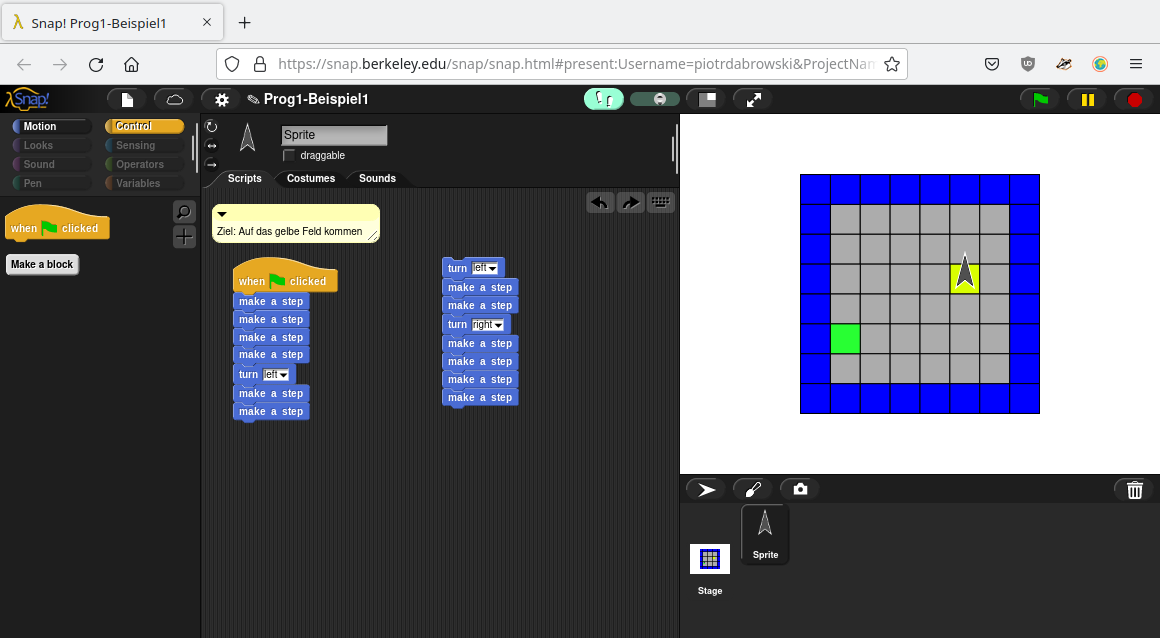
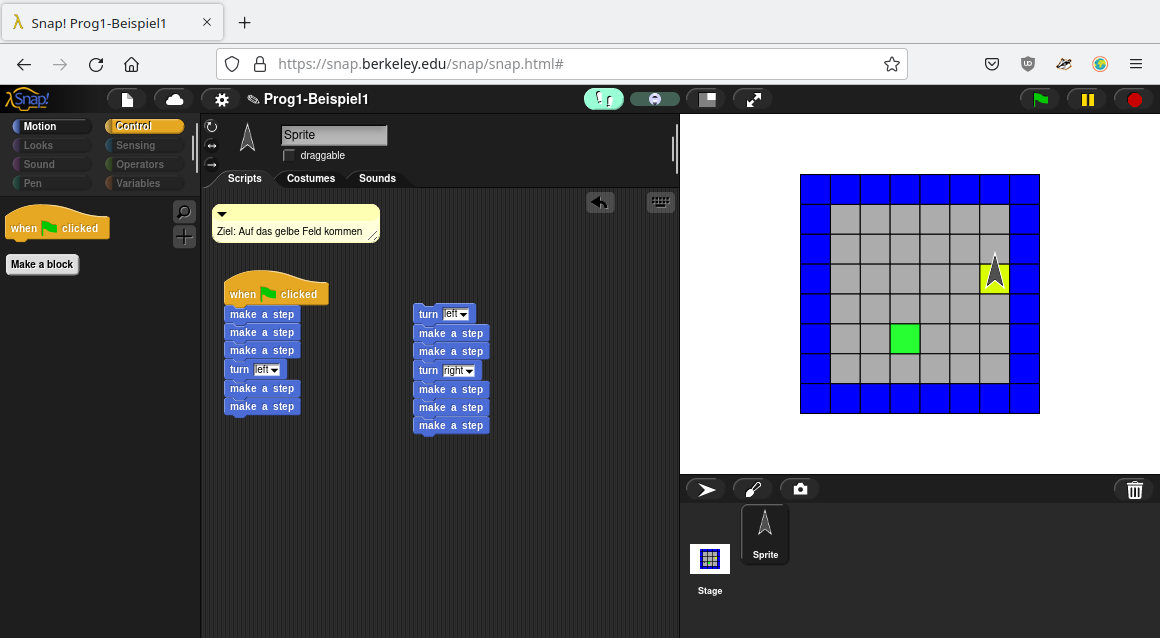
Updated maps to work without variables in week 1

diff --git a/Skript/Woche1.md b/Skript/Woche1.md
@@ -60,7 +60,7 @@ Auf der linken Seite sind die zur Verfügung stehenden Blöcke aufgelistet. Beac
 
 Wichtig sind noch zwei weitere Bedienelemente: Durch Klick auf die grüne Fahne oben rechts starten Sie Ihr Programm. Und durch Klick auf die Fußspuren oben in der Mitte (im Screenshot hellblau hinterlegt) verlangsamen Sie die Ausführung des Programms, um die einzelnen Schritte besser nachvollziehen zu können. Die genaue Geschwindigkeit können Sie mit dem Schieberegler daneben einstellen.
 
-Beginnen wir nun mit dem ersten Algorithmus, um den Pfeil von dem grünen auf das gelbe Feld zu führen. Dafür muss er 4 Schritte machen, sich dann nach links drehen, und dann weitere 2 Schritte machen (zumindest ist das eine der vielen möglichen Lösungen). Das lässt sich in Snap! durch drag&drop der entsprechenden Kontrollblöcke wie folgt abbilden:
+Beginnen wir nun mit dem ersten Algorithmus, um den Pfeil von dem grünen auf das gelbe Feld zu führen. Dafür muss er 3 Schritte machen, sich dann nach links drehen, und dann weitere 2 Schritte machen (zumindest ist das eine der vielen möglichen Lösungen). Das lässt sich in Snap! durch drag&drop der entsprechenden Kontrollblöcke wie folgt abbilden:
 
 ![Erster Lösungsversuch](Bilder/Snap-2.png)
 
@@ -84,3 +84,38 @@ Dieses Problem hat jeder Algorithmus: Wenn die Rahmenbedingungen, für die er ge
 
 ![Vollständige Lösung](Bilder/Snap-6.png)
 
+## Verallemeinerungen und Kontrollstrukturen
+
+Der Nachteil von diesem Algorithmus ist, dass er nur exakt dann funktioniert, wenn der Pfeil auf dem grünen Feld ist und das gelbe Feld 3 Schritte nach vorne und 2 Schritte nach links weg ist. Wenn der Algorithmus aber mit unterschiedlichen Positionen des gelben Feldes umgehen können soll, dann reicht eine starre Abfolge an Anweisungen nicht aus: Es sind Bedingungen nötig.
+
+Zwei Varianten von Bedingungen schauen wir uns in [Beispiel 2](https://snap.berkeley.edu/project?user=piotrdabrowski&project=Prog1-Beispiel2) an. Zunächst sieht die Karte identisch aus, wie im vorangegangenen Beispiel. Hier sind aber mehrere Varianten von Karten hinterlegt, mit denen der Algorithmus getestet werden kann. Klicken Sie, um zwischen den Karten hin und her zu wechseln, zunächst mit der rechten Maustaste auf die Bühne und selektieren Sie die Option "Edit":
+
+![Bearbeiten der Bühne](Bilder/Snap-7.png)
+
+Wählen Sie dann zunächst den Tab "Backgrounds" aus und klicken Sie dann eine andere Karte an. Um nun das Skript wieder bearbeiten zu können, müssen Sie wieder den Sprite unten links anklicken:
+
+![Background ändern](Bilder/Snap-8.png)
+
+Zuletzt müssen Sie wieder den Tab "Script" auswählen. Sollten Sie diese letzten zwei Schritte vergessen haben, werden Sie bei der Ausführung Ihres Skriptes beim ersten Bewegungsbefehl Fehler wie "rcvr[Selector] is undefined" erhalten. Das liegt daran, dass Sie dann ein Skript zum Kontrollieren der Bühne schreiben - und die kann sich im Gegensaz zum Sprite nicht bewegen.
+
+Kommen wir nun zu unserem Algorithmus zurück. Das gelbe Feld kann nun, nachdem der Pfeil sich nach links gedreht hat, noch einen, zwei oder auch vier Schritte entfernt sein. Es ist also nötig, nach jedem Schritt zu überprüfen, ob der Pfeil vor dem gelben Feld steht. Falls das der Fall ist, muss noch ein letzer Schritt auf das Feld getan werden (aus technischen Gründen gibt es nur die Überprüfung "steht vor dem gelben Feld", und keine Überprüfung "steht auf dem gelben Feld") und das Programm muss unterbrochen werden. 
+
+Für diese Überprüfung werden drei neue Blöcke benötigt: 
+
+* Der Kontrollblock `if` führt die in ihm enthaltenen Blöcke nur aus, falls die vorgegebene Bedingung erfüllt ist, sonst wird alles in dem if-Block übersprungen
+* Der Kontrollblock `stop all` beendet das Ausführen des Programms
+* Der Sensing-Block `in front of Farbe` ist eine Bedingung, die erfüllt ist, wenn der Pfeil vor einem Block der angegebenen Farbe steht
+
+In Snap! sind übrigens Bedingungen immer als Blöcke mit spitzen Seiten dargestellt.
+
+Mit diesen Blöcken lässt sich der Algorithmus nun wie folgt allgemeiner schreiben:
+
+![Algorithmus mit if](Bilder/Snap-9.png)
+
+Das sieht allerdings nicht sonderlich schön oder übersichtlich aus - und wenn Sie das selber in Snap! zusammenklicken, wird Ihnen auffallen, dass es nervig ist, immer wieder die selben Blöcke zusammenzusetzen. Für dieses Konzept von "tue immer wieder das gleiche" wird ein anderes grundlegendes Programmierkonzept verwendet: Die Schleife. Diese funktioniert ähnlich wie ein `if`, führt aber die enthaltenen Blöcke immer wieder aus, bis die Bedingung nicht mehr erfüllt ist. Der Schleifen-Block heißt in Snap! `repeat until`. Mit ihm kann man den Algorithmus deutlich schöner aufschreiben, indem man die beiden Teilaufgaben "laufe bis zur ersten blauen Wand" und "laufe immer weiter, bis du vor dem gelben Feld stehst" jeweils in einen Schleifenblock schreibt:
+
+![Algorithmus mit Schleife](Bilder/Snap-10.png)
+
+Der Grund für die Bedingung `in front of blue` in der zweiten Schleife ist einfach die Überlegung, dass ein gelbes Feld vor der blauen Wand kommen sollte - und falls wir ohne ein gelbes Feld gesehen zu haben plötzlich vor der blauen Wand stehen sollten, dann ist irgendwas schief gelaufen und wir sollten anhalten. Es würde aber genauso gut auch dieser Algorithmus funktionieren, der in dem zweiten Teil in der Schleife `in front of yellow` überprüft:
+
+![Altenrativer Algorithmus mit Schleife](Bilder/Snap-11.png)

diff --git a/Folien/Wochen1_2.md b/Folien/Wochen1_2.md
@@ -77,8 +77,6 @@ footer: Prof. Dr.-Ing. P. W. Dabrowski - Programmierung 1 - HTW Berlin
   * `stop all`: Programm beenden
 * Eleganter mit
   * `repeat until Bedingung`: Dinge tun, bis `Bedingung` erfüllt ist
-  * `script variables Name`: Variable `Name` anlegen
-  * `set Name to Wert`: `Wert` in `Variable` merken
 
 ---
 
@@ -97,5 +95,3 @@ footer: Prof. Dr.-Ing. P. W. Dabrowski - Programmierung 1 - HTW Berlin
 * Aufhübschung von [Beispiel 3](https://snap.berkeley.edu/project?user=piotrdabrowski&project=Prog1-Beispiel3): 
     * Argument in Funktion nehmen - `check for door Richtung` überprüft Tür in `Richtung` anstatt nur links (siehe `turn`)
     * Funktion `is Richtung of door` mit Rückgabewert (`true` oder `false`): Kann in `if` verwendet werden (siehe `in front of Farbe`)
-
----
